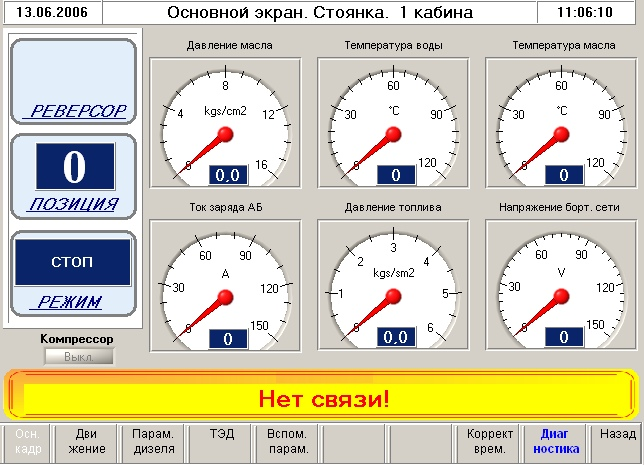
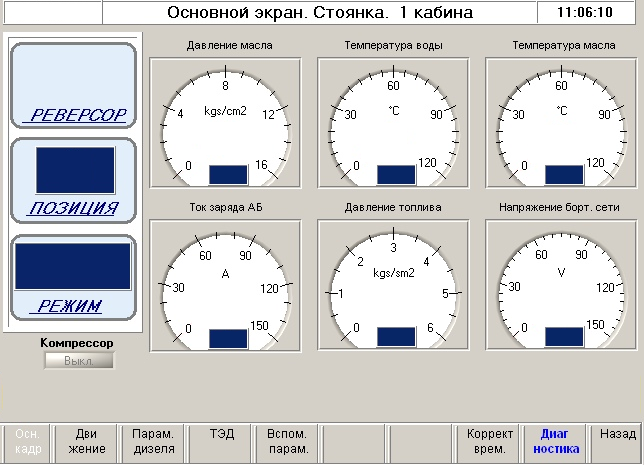
расставлены элементы кадра главного экрана. Стоянка

diff --git a/addons/tep70/msut-display/src/msut-main-disp-parking.cpp b/addons/tep70/msut-display/src/msut-main-disp-parking.cpp
@@ -11,23 +11,96 @@
 MsutMainDispParking::MsutMainDispParking(QLabel *parent)
     : QLabel(parent)
 {
-//    QPixmap pic;
-//    if (!pic.load(":/msut/msut-main-parking"))
-//    {
-//        return;
-//    }
-//    parent->setPixmap(pic);
+    // Давление масла
+    scaleArrow_P_oil_ = new ScaleArrow2(QSize(150, 130), 0, parent);
+    scaleArrow_P_oil_->move(150, 57);
+    scaleArrow_P_oil_->setMaxVal(16);
+    //scaleArrow_P_oil_->setStyleSheet("border: 2px solid red;");
+    scaleArrow_P_oil_->setVal(0);
 
+    // Температура воды
+    scaleArrow_T_whater_ = new ScaleArrow2(QSize(150, 130), 0, parent);
+    scaleArrow_T_whater_->move(318, 57);
+    scaleArrow_T_whater_->setMaxVal(120);
+    scaleArrow_T_whater_->setVal(0);
+
+    // Температура масла
+    scaleArrow_T_oil_ = new ScaleArrow2(QSize(150, 130), 0, parent);
+    scaleArrow_T_oil_->move(487, 57);
+    scaleArrow_T_oil_->setMaxVal(120);
+    scaleArrow_T_oil_->setVal(0);
+
+    // Ток заряда АБ
+    scaleArrow_I_AB_ = new ScaleArrow2(QSize(150, 130), 0, parent);
+    scaleArrow_I_AB_->move(150, 220);
+    scaleArrow_I_AB_->setMaxVal(150);
+    scaleArrow_I_AB_->setVal(0);
+
+    // Давление топлива
+    scaleArrow_P_fuel_ = new ScaleArrow2(QSize(150, 130), 0, parent);
+    scaleArrow_P_fuel_->move(318, 220);
+    scaleArrow_P_fuel_->setMaxVal(6);
+    scaleArrow_P_fuel_->setVal(0);
+
+    // Напряжение борт. сети
+    scaleArrow_U_chain_ = new ScaleArrow2(QSize(150, 130), 0, parent);
+    scaleArrow_U_chain_->move(487, 220);
+    scaleArrow_U_chain_->setMaxVal(150);
+    scaleArrow_U_chain_->setVal(0);
+
+
+
+
+    label_P_oil_ = new QLabel(parent);
+    drawNumberLabel_(label_P_oil_, QRect(208,165, 40,20), 12);
+    label_P_oil_->setText("0.0");
+
+    label_T_whater_ = new QLabel(parent);
+    drawNumberLabel_(label_T_whater_, QRect(376,165, 40,20), 12);
+    label_T_whater_->setText("0");
+
+    label_T_oil_ = new QLabel(parent);
+    drawNumberLabel_(label_T_oil_, QRect(544,165, 40,20), 12);
+    label_T_oil_->setText("0");
+
+
+    label_I_AB_ = new QLabel(parent);
+    drawNumberLabel_(label_I_AB_, QRect(208,329, 40,20), 12);
+    label_I_AB_->setText("0");
+
+    label_P_fuel_ = new QLabel(parent);
+    drawNumberLabel_(label_P_fuel_, QRect(376,327, 40,20), 12);
+    label_P_fuel_->setText("0.0");
+
+    label_U_chain_ = new QLabel(parent);
+    drawNumberLabel_(label_U_chain_, QRect(544,327, 40,20), 12);
+    label_U_chain_->setText("0");
 }
+
+
 
 void MsutMainDispParking::updateData(display_signals_t input_signals)
 {
 
 }
 
+
+
 void MsutMainDispParking::setMyVisible(bool flag)
 {
+    scaleArrow_P_oil_->setVisible(flag);
+    scaleArrow_T_whater_->setVisible(flag);
+    scaleArrow_T_oil_->setVisible(flag);
+    scaleArrow_I_AB_->setVisible(flag);
+    scaleArrow_P_fuel_->setVisible(flag);
+    scaleArrow_U_chain_->setVisible(flag);
 
+    label_P_oil_->setVisible(flag);
+    label_T_whater_->setVisible(flag);
+    label_T_oil_->setVisible(flag);
+    label_I_AB_->setVisible(flag);
+    label_P_fuel_->setVisible(flag);
+    label_U_chain_->setVisible(flag);
 }
 
 
@@ -35,7 +108,6 @@ void MsutMainDispParking::drawNumberLabel_(QLabel *lab, QRect geo, int fontSize,
 {
     lab->resize(geo.size());
     lab->move(geo.x(), geo.y());
-    //lab->setStyleSheet("border: 1px solid red;");
     lab->setStyleSheet("color:"+ color +";");
     lab->setAlignment(align);
     lab->setFont(QFont("Arial", fontSize, 63));

diff --git a/addons/tep70/msut-display/src/scale-arrow-2.cpp b/addons/tep70/msut-display/src/scale-arrow-2.cpp
@@ -1,0 +1,103 @@
+#include "scale-arrow-2.h"
+#include    <QPainter>
+#include    <QtCore/qmath.h>
+
+
+
+ScaleArrow2::ScaleArrow2(QSize _size, int otstupSverhu, QWidget *parent)
+    : QLabel(parent)
+    , maxVal_(4)
+{
+    this->resize(_size);
+    w_2_ = this->width()/2.0;
+    h_2_ = this->width()/2.0 + 2;
+
+    cpX_ = this->width()/2.0 + 20;
+    cpY_ = this->width()/2.0;
+//    //cpY_ = this->height()*3/4.0;
+//    cpY_ = this->height() + 28*1.5;
+//    cpY_ = this->width()/2.0 + otstupSverhu;
+
+    img_ = QImage(this->size(), QImage::Format_ARGB32_Premultiplied);
+    //draw_(60);
+
+}
+
+
+
+void ScaleArrow2::setMaxVal(double val)
+{
+    this->maxVal_ = val;
+}
+
+
+
+void ScaleArrow2::setVal(double val)
+{
+//    if (val < 0) val = 0;
+//    if (val > maxVal_) val = maxVal_;
+
+    draw_(val);
+}
+
+
+
+void ScaleArrow2::draw_(double _val)
+{
+    img_.fill(Qt::transparent);
+    QPixmap pix = QPixmap::fromImage(img_);
+    QPainter paint(&pix);
+    paint.setRenderHint(QPainter::Antialiasing, true);
+
+    int sgp_angleArcEnd = -40; // +++
+    //int sgp_maxSpeedScale = 60; // maxVal_
+    int sgp_lenArcScale = 260; // +++
+    double stepDeg_ = /*(360.0-90)*/260/maxVal_;
+
+
+
+    //double angleInDeg = (360.0-sgp_angleArcEnd) - 90;
+    double angleInDeg = (360.0-sgp_angleArcEnd) - (maxVal_ - _val)*stepDeg_;
+
+
+
+
+    double angle = 0;
+
+    angle = qDegreesToRadians(angleInDeg);
+    double fooAngle = qDegreesToRadians(90.0);
+    // длина стрелки
+    double r  = 0.8;
+    // половина ширины основания стрелки
+    double r2 = 3.5;
+
+
+    QPolygonF triangle;
+    triangle << QPointF( w_2_ + (w_2_*r)*cos(angle),
+                         h_2_ + (h_2_*r)*sin(angle) )
+             << QPointF( w_2_ + r2*cos(angle+fooAngle),
+                         h_2_ + r2*sin(angle+fooAngle) )
+             << QPointF( w_2_ + r2*cos(angle-fooAngle),
+                         h_2_ + r2*sin(angle-fooAngle) );
+
+    paint.setPen(QPen(Qt::black, 1, Qt::SolidLine));
+    paint.setBrush(Qt::red);
+    paint.drawPolygon(triangle);
+
+
+    paint.setPen(QPen( QColor(Qt::blue),
+                       16,
+                       Qt::SolidLine,
+                       Qt::RoundCap ));
+    paint.drawPoint(w_2_, h_2_);
+
+
+//    paint.setPen(QPen(Qt::green, 2, Qt::SolidLine));
+//    QRect rect(10,10, this->width()-20, this->width()-20);
+//    paint.drawArc(rect, sgp_angleArcEnd*16, sgp_lenArcScale*16);
+
+    paint.end();
+    this->setPixmap(pix);
+}
+
+

diff --git a/addons/tep70/msut-display/src/msut-main-disp-move.cpp b/addons/tep70/msut-display/src/msut-main-disp-move.cpp
@@ -10,16 +10,7 @@
 
 MsutMainDispMove::MsutMainDispMove(QLabel *parent)
     : QLabel(parent)
-    //, fonZ_(parent)
 {
-//    QPixmap pic;
-//    if (!pic.load(":/msut/msut-main-move"))
-//    {
-//        return;
-//    }
-//    parent->setPixmap(pic);
-
-
     // ЭТ/Тяга
     scaleArrow_ = new ScaleArrow(QSize(220, 100), 28, parent);
     scaleArrow_->setIsArrow(true);
@@ -150,14 +141,6 @@ void MsutMainDispMove::updateData(display_signals_t input_signals)
     int fooH = 231;
     int fooW = 13;
     int fooY0 = 68;
-
-//    // для виду. Удалить. zБогос
-//    input_signals[MSUT_VU1_I_TED] = 1.2;
-//    input_signals[MSUT_VU1_I] = 7;
-//    input_signals[MSUT_VU1_U] = 0.8;
-//    input_signals[MSUT_VU2_U] = 3.2;
-//    input_signals[MSUT_VU2_I] = 200;
-
     frameVU1_Ited_->resize(fooW, fooH*input_signals[MSUT_VU1_I_TED]/1.5);
     frameVU1_Ited_->move(frameVU1_Ited_->x(), fooY0 + fooH*(1.5 - input_signals[MSUT_VU1_I_TED])/1.5);
     labelVU1_Ited_->setText(QString::number(input_signals[MSUT_VU1_I_TED]));
@@ -182,8 +165,6 @@ void MsutMainDispMove::updateData(display_signals_t input_signals)
 
 void MsutMainDispMove::setMyVisible(bool flag)
 {
-    //fonZ_->setVisible(flag);
-
     scaleArrow_->setVisible(flag);
     scaleSpeed_->setVisible(flag);
     scaleAcceleration_->setVisible(flag);
@@ -207,6 +188,7 @@ void MsutMainDispMove::setMyVisible(bool flag)
 
     hBar_->setVisible(flag);
 }
+
 
 
 void MsutMainDispMove::drawNumberLabel_(QLabel *lab, QRect geo, int fontSize, QString color, Qt::Alignment align)

diff --git a/addons/tep70/msut-display/include/msut-main-disp-parking.h b/addons/tep70/msut-display/include/msut-main-disp-parking.h
@@ -3,7 +3,7 @@
 
 #include    "display.h"
 
-#include "scale-arrow.h"
+#include "scale-arrow-2.h"
 #include "horizont-bar.h"
 
 
@@ -21,10 +21,23 @@ public:
 
 
 private:
+    ScaleArrow2* scaleArrow_P_oil_;
+    ScaleArrow2* scaleArrow_T_whater_;
+    ScaleArrow2* scaleArrow_T_oil_;
+    ScaleArrow2* scaleArrow_I_AB_;
+    ScaleArrow2* scaleArrow_P_fuel_;
+    ScaleArrow2* scaleArrow_U_chain_;
+
+    QLabel* label_P_oil_;
+    QLabel* label_T_whater_;
+    QLabel* label_T_oil_;
+    QLabel* label_I_AB_;
+    QLabel* label_P_fuel_;
+    QLabel* label_U_chain_;
 
 
     void drawNumberLabel_(QLabel* lab, QRect geo, int fontSize,
-                          QString color, Qt::Alignment align = Qt::AlignCenter);
+                          QString color = "white", Qt::Alignment align = Qt::AlignCenter);
 
 
 

diff --git a/addons/tep70/msut-display/include/msut-main-disp-move.h b/addons/tep70/msut-display/include/msut-main-disp-move.h
@@ -20,8 +20,6 @@ public:
 
 
 private:
-    //QLabel* fonZ_;
-
     ScaleArrow* scaleArrow_;
     ScaleArrow* scaleSpeed_;
     ScaleArrow* scaleAcceleration_;
@@ -41,12 +39,8 @@ private:
     QLabel* labelVU2_U_;
     QLabel* labelVU2_I_;
 
-
-
     QLabel* label_kW_left_;
     QLabel* label_kW_right_;
-
-
 
     HorizontBar* hBar_;
 
@@ -54,8 +48,6 @@ private:
 
     void drawNumberLabel_(QLabel* lab, QRect geo, int fontSize,
                           QString color, Qt::Alignment align = Qt::AlignCenter);
-
-
 
 
 

diff --git a/addons/tep70/msut-display/include/scale-arrow-2.h b/addons/tep70/msut-display/include/scale-arrow-2.h
@@ -1,0 +1,32 @@
+#ifndef SCALEARROW2_H
+#define SCALEARROW2_H
+
+#include <QLabel>
+
+class ScaleArrow2 : public QLabel
+{
+public:
+    ScaleArrow2(QSize _size, int otstupSverhu, QWidget* parent = Q_NULLPTR);
+
+    void setMaxVal(double val);
+
+    void setVal(double val);
+
+private:
+    double w_2_;
+    double h_2_;
+
+    double cpX_;
+    double cpY_;
+
+    QImage img_;
+
+    double maxVal_;
+
+
+
+    void draw_(double _val);
+
+};
+
+#endif // SCALEARROW2_H

diff --git a/addons/tep70/msut-display/src/msut-display.cpp b/addons/tep70/msut-display/src/msut-display.cpp
@@ -83,6 +83,7 @@ void MsutDisplay::init()
 
     // Элементы основного экрана. Стоянка
     msutMainDispParking_ = new MsutMainDispParking(background_);
+    msutMainDispParking_->setMyVisible(false);
 
 
 
@@ -140,9 +141,6 @@ void MsutDisplay::drawNumberLabel_(QLabel* lab, QRect geo, int fontSize, QString
 
 void MsutDisplay::slotUpdateTimer()
 {
-
-
-
     int z = 2;
     if (z == 1)
     {
